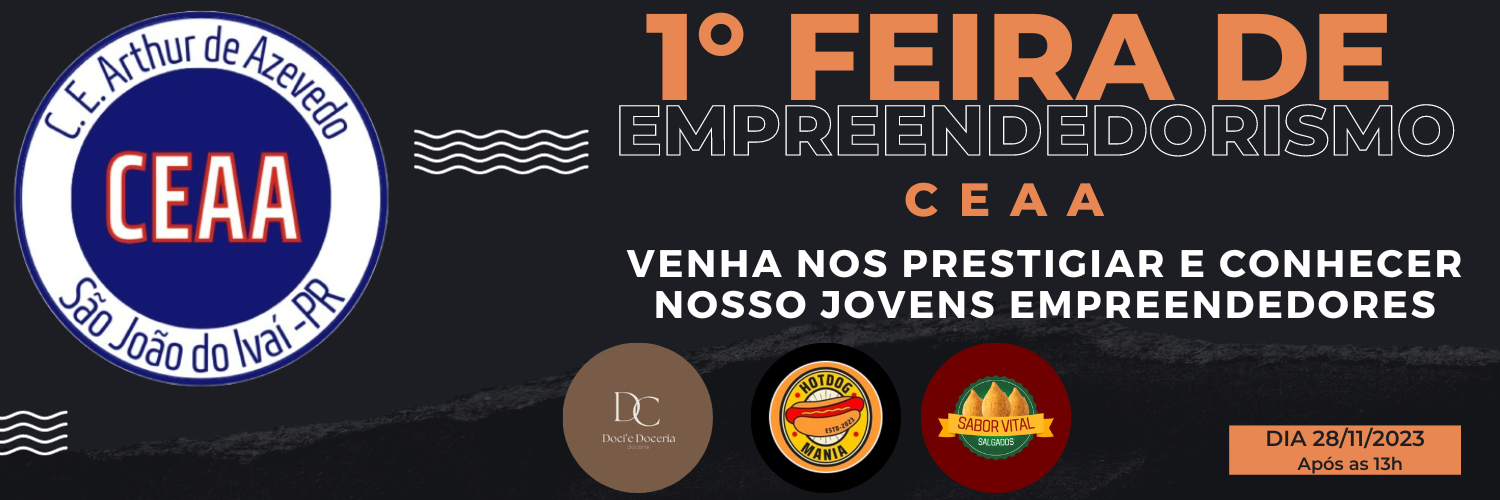
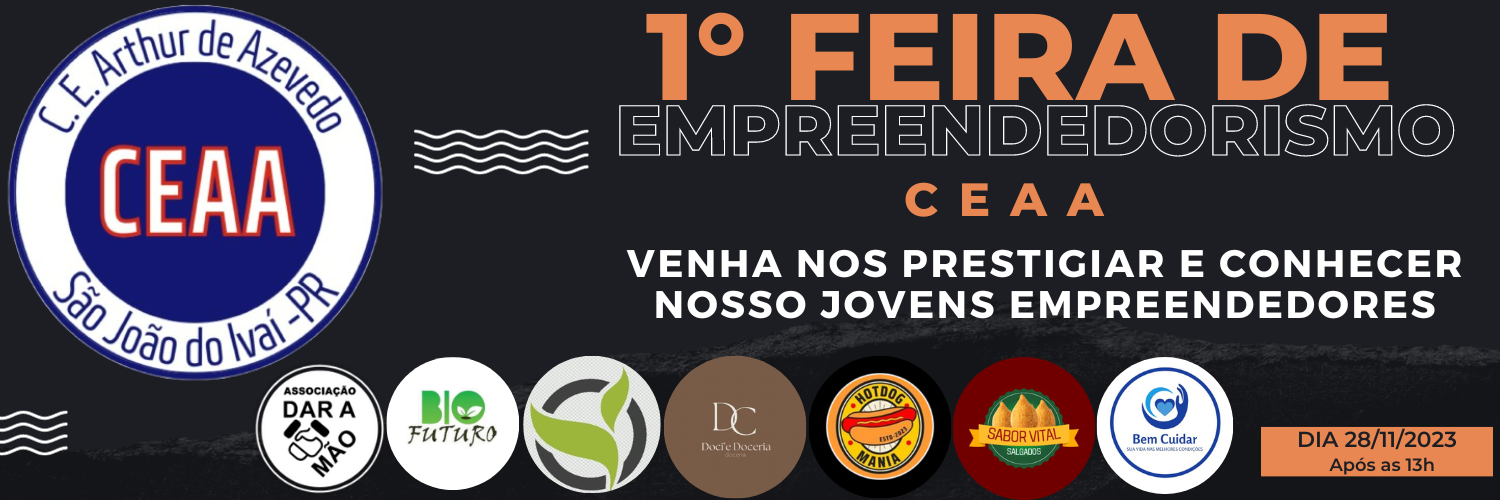
Add files via upload

Changed region(s): [[0.0, 0.0, 1.0, 1.0]]

diff --git a/index.html b/index.html
@@ -33,11 +33,8 @@
     <section>
       <div class="banner_doces">
         <div class="content section__doce">
-          <img class="logo__docie"  src="img/logo.jpg">
-        </div>
-        <div class="content section__doce">
+          <img class="logo__docie"  src="img/logos/logo.jpg">
           <h1>Doceria Doci'E</h1>
-          <h2>Doces feitos para você</h2>
         </div>
       </div>
     </section>
@@ -70,8 +67,8 @@
 
     <div class="banner__bio">
       <div class="content section__bio">
+          <img class="logo__bio"  src="img/logos/so logo.jpg">
         <h1>Biotecnologia</h1>
-        <h2>Trabalhos feitos por alunos</h2>
       </div>
     </div>
 
@@ -185,19 +182,46 @@
             <li class="lista__link">
                 <a href="https://www.instagram.com/_sabor.vital/" target="_blank"
           rel="noopener noreferrer">
-                    <img src="img/saborvitao.jpg" alt="" srcset="" />
+                    <img src="img/logos/saborvitao.png" alt="" srcset="" />
                 </a>
             </li>
             <li class="lista__link">
                 <a href="https://www.instagram.com/_hotdog.mania/" target="_blank"
           rel="noopener noreferrer">
-                    <img src="img/hotmania.png" alt="" srcset="" />
+                    <img src="img/logos/hotdogmania.png" alt="" srcset="" />
                 </a>
             </li>
-         
+
+            <li class="lista__link">
+                <a href="https://professorrichardson.github.io/ceaa/" target="_blank"
+          rel="noopener noreferrer">
+                    <img src="img/logos/bio.png" alt="" srcset="" />
+                </a>
+            </li>
+
+            <li class="lista__link">
+                <a href="https://www.instagram.com/bio.futuro17/" target="_blank"
+          rel="noopener noreferrer">
+                    <img src="img/logos/bioF.png" alt="" srcset="" />
+                </a>
+            </li>
+
+            <li class="lista__link">
+                <a href="http://daramao.org" target="_blank"
+          rel="noopener noreferrer">
+                    <img src="img/logos/daramao.png" alt="" srcset="" />
+                </a>
+            </li>
+
+            <li class="lista__link">
+                <a href="https://www.instagram.com/bemcuidarsji/" target="_blank"
+          rel="noopener noreferrer">
+                    <img src="img/logos/bemcuidar.png" alt="" srcset="" />
+                </a>
+            </li>
     </footer>
     <div class="footer__ceaa">
-       <img src="img/logo.png" alt="ceaa" class="rodape__logo" />
+       <img src="img/logos/logo.png" alt="ceaa" class="rodape__logo" />
             <p class="rodape__texto">
         ® 2023 - Colégio Estadual Arthur de Azevedo - São João do Ivaí-PR
       </p>

diff --git a/styles.css b/styles.css
@@ -37,15 +37,19 @@ p {
 }
 
 .banner_doces{
-    display: flex;
-    justify-content: flex-start;
-    align-items: center;
+
     background-color: var(--cor-header);
     color: var(--branco-principal);
 }
 .logo__docie{
     border-radius: 50%;
     max-width: 50%;
+}
+
+.logo__bio{
+    border-radius: 50%;
+    max-width: 28%;
+    margin-left: 30px;
 }
 .banner_doces .content h1{
     margin: 0 0 0 0;
@@ -69,6 +73,9 @@ p {
     background-color: var(--cor-bio);
 }
 .section__bio{
+    display: flex;
+    justify-content: space-around;
+    align-items: center;
     background-color: var(--cor-bio);
 }
 .banner__bio .content h1{
@@ -85,6 +92,9 @@ p {
 }
 
 .section__doce{
+        display: flex;
+    justify-content: center;
+    align-items: center;
     font-family: var(--fonte-docie);
     font-size: 20px;
     font-weight: 400;
@@ -128,6 +138,19 @@ p {
     align-items: center;
     margin: 0 2em;
     margin-top: 70px;
+}
+.social p {
+    margin-bottom: 30px;
+    font-size: 30px;
+    font-weight: 700;
+    text-align: center;
+}
+.rodape p  {
+
+    margin-bottom: 40px;
+    font-size: 30px;
+    font-weight: 700;
+    text-align: center;
 }
 .logo__social img{
     max-width: 100px;
@@ -206,7 +229,28 @@ p {
 .container__descricao img{  /* tamanho max da imagem */
     max-width: 90%;
 }
-
+.social{
+    display: flex;
+    flex-direction: column;
+    justify-content: flex-start;
+    align-items: center;
+    flex-wrap: nowrap;
+    margin: 0 2em;
+    margin-top:  70px;
+}
+.social p {
+    font-size: 30px;
+    font-weight: 700;
+    text-align: center;
+}
+.rodape p  {
+    font-size: 30px;
+    font-weight: 700;
+    text-align: center;
+}
+.rodape__lista{
+    flex-wrap: wrap;
+}
 .logo__social{
   display: grid;
   place-items: center; 
@@ -214,23 +258,24 @@ margin-top: 5px;
 }
 .logo__social img{
     width: 100%;
-
+}
+.logo__docie{
+    margin: 20px;
+}
+.section__doce h1, h2{
+    display: none;
+}
+.section__bio h1, h2{
+    display: none;
+}
+.section__bio{
+    margin: 20px;
 }
 
-
-.rodape__lista{
-    display: block;
-    }
-.rodape__logo{
-margin-right: 15px;
-    width: auto;
-    height: auto;
-    }
-    .lista__link img{
-        max-width: 30%;
+ .lista__link img{
+        max-width: 50%;
         border-radius: 50%;
         margin-bottom: 20px;
-    }
 
 .banner img{
     display: block;
